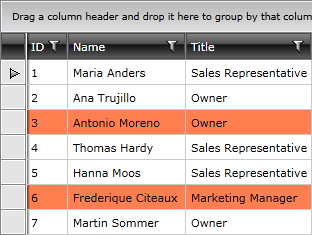
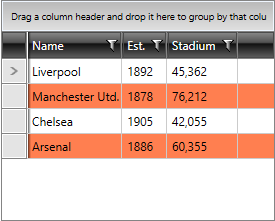
Added example without AlternateRowBackground property

diff --git a/controls/radgridview/rows/alternating-rows.md b/controls/radgridview/rows/alternating-rows.md
@@ -10,21 +10,32 @@ position: 3
 
 # Alternating Rows
 
-The __RadGridView__ allows you to have alternating rows. In order to define the pattern of alternation you have to set the __AlternationCount__ property. For example if you want to alternate each second row, you have to set its value to __2__. Setting it to __3__ makes each third row to be alternated.
+__RadGridView__ allows you to have alternating rows. In order to define the pattern of alternation you have to set the __AlternationCount__ property. For example if you want to alternate each second row, you have to set its value to __2__. Setting it to __3__ makes each third row to be alternated.
 
-In order to style the alternating rows, you can specify the __AlternateRowStyle__ and/or the __AlternateRowBackground__ properties.
+#### __[XAML] Example 1: Setting the AlternationCount Property:__
 
->tipTo learn more about styling the rows and the alternating rows you can read [here]({%slug gridview-styling-a-row%}).
->
-Here is an example of __RadGridView__ with __AlternationCount__ set to __3__ and __AlternateRowBackground__ color set to __Coral__.
-
-#### __XAML__
+![](images/RadGridView_Rows_Alternating_Rows_02.png)
 
 {{region radgridview-rows-alternating-rows_0}}
 
 	<telerik:RadGridView x:Name="radGridView"
-	                         AutoGenerateColumns="False"
-	                         AlternationCount="3"
+	                         AlternationCount="2">
+	    ...
+	</telerik:RadGridView>
+{{endregion}}
+
+In order to style the alternating rows, you can specify the __AlternateRowStyle__ and/or the __AlternateRowBackground__ properties.
+
+>tipTo learn more about styling the rows and the alternating rows you can read [here]({%slug gridview-styling-a-row%}).
+
+Here is an example of __RadGridView__ with __AlternationCount__ set to __3__ and __AlternateRowBackground__ color set to __Coral__.
+
+#### __[XAML] Example 2: Setting the AlternateRowBackground Property:__
+
+{{region radgridview-rows-alternating-rows_1}}
+
+	<telerik:RadGridView x:Name="radGridView"
+	                         AlternationCount="2"
 	                         AlternateRowBackground="Coral">
 	    ...
 	</telerik:RadGridView>
